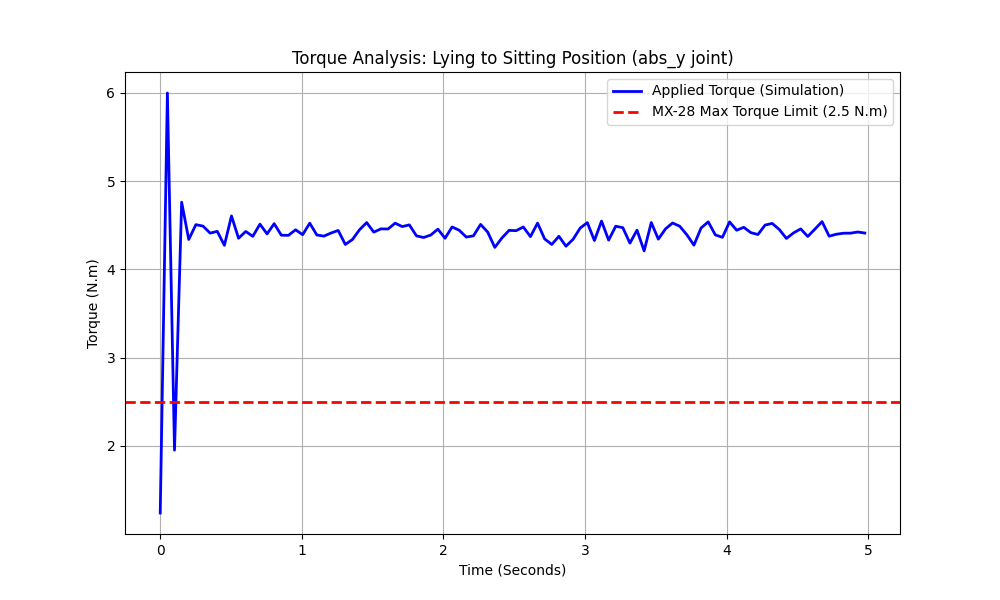
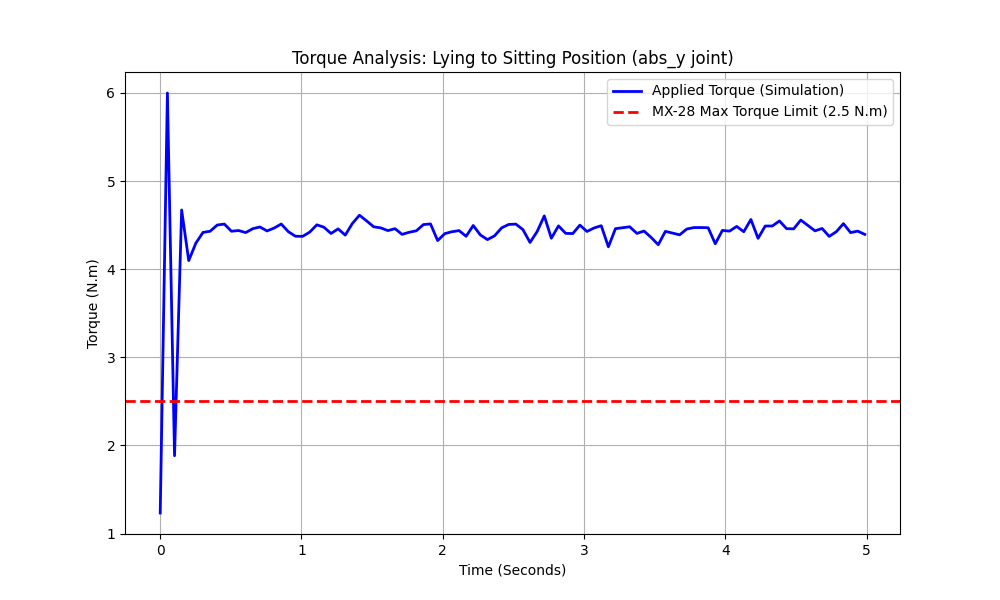
Added voice and speaker controllers and tested with hardwares

diff --git a/src/Controllers/VoiceController.py b/src/Controllers/VoiceController.py
@@ -1,0 +1,76 @@
+import speech_recognition as sr
+from enum import Enum
+from typing import Optional
+
+class RobotAction(Enum):
+    HELLO = 1
+    SIT_DOWN = 2
+    STAND_UP = 3
+    UNKNOWN_COMMAND = 4
+    SILENCE_OR_ERROR = 5
+
+class VoiceController:
+    def __init__(self, target_mic_name: str = "USB PnP Sound Device"): 
+        self.recognizer = sr.Recognizer()
+        
+        print("--- Available Microphone Devices ---")
+        mic_names = sr.Microphone.list_microphone_names()
+        
+        device_index = self._find_microphone_index(target_mic_name, mic_names)
+        
+        if device_index is not None:
+            print(f"Target microphone containing '{target_mic_name}' found at index {device_index}.")
+            self.microphone = sr.Microphone(device_index=device_index)
+        else:
+            print(f"Target microphone '{target_mic_name}' not found. Falling back to default...")
+            self.microphone = sr.Microphone()
+
+        with self.microphone as source:
+            self.recognizer.adjust_for_ambient_noise(source, duration=1)
+
+    def _match_intent(self, transcribed_text: str) -> RobotAction:
+        text = transcribed_text.lower().strip()
+
+        hello_keywords = ["hello", "hi", "hey", "greetings"]
+        sit_keywords = ["sit", "sit down", "take a seat"]
+        stand_keywords = ["stand", "stand up", "get up"]
+
+        if any(keyword in text for keyword in hello_keywords):
+            return RobotAction.HELLO
+        
+        if any(keyword in text for keyword in sit_keywords):
+            return RobotAction.SIT_DOWN
+            
+        if any(keyword in text for keyword in stand_keywords):
+            return RobotAction.STAND_UP
+
+        return RobotAction.UNKNOWN_COMMAND
+
+    def _find_microphone_index(self, target_name: str, mic_names: list) -> Optional[int]:
+        for index, name in enumerate(mic_names):
+            if target_name.lower() in name.lower():
+                return index
+        return None
+
+    def listen_and_get_action(self) -> RobotAction:
+        try:
+            print("Listening for command...")
+            with self.microphone as source:
+                audio_data = self.recognizer.listen(
+                    source, 
+                    timeout=5, 
+                    phrase_time_limit=5
+                )
+            
+            transcribed_text = self.recognizer.recognize_google(audio_data)
+            print(f"Transcribed: {transcribed_text}")
+            return self._match_intent(transcribed_text)
+
+        except sr.WaitTimeoutError:
+            return RobotAction.SILENCE_OR_ERROR
+        except sr.UnknownValueError:
+            return RobotAction.UNKNOWN_COMMAND
+        except sr.RequestError:
+            return RobotAction.SILENCE_OR_ERROR
+        except Exception:
+            return RobotAction.SILENCE_OR_ERROR

diff --git a/src/InstantTestsFolder/TestVoiceCommands.py b/src/InstantTestsFolder/TestVoiceCommands.py
@@ -1,0 +1,33 @@
+import sys
+import os
+
+current_dir = os.path.dirname(os.path.abspath(__file__))
+root_dir = os.path.abspath(os.path.join(current_dir, "../../"))
+sys.path.append(root_dir)
+
+
+from src.Controllers.VoiceController import VoiceController, RobotAction
+from src.Controllers.SpeakerController import SpeakerController
+
+# from src.Movements.VaweHand import wave_hand_function
+# from src.Movements.SitDown import sit_down_function
+
+voice_controller = VoiceController()
+speaker_controller = SpeakerController()
+
+while True:
+    action = voice_controller.listen_and_get_action()
+    
+    if action == RobotAction.HELLO:
+        print("In Hello Action")
+        speaker_controller.speak("Hello there! It is nice to meet you.")
+        # wave_hand_function()
+        pass
+    elif action == RobotAction.SIT_DOWN:
+        print("In Sit Down Action") 
+        # sit_down_function()
+        pass
+    elif action == RobotAction.UNKNOWN_COMMAND:
+        pass
+    elif action == RobotAction.SILENCE_OR_ERROR:
+        pass

diff --git a/src/Controllers/SpeakerController.py b/src/Controllers/SpeakerController.py
@@ -1,0 +1,24 @@
+import pyttsx3
+
+class SpeakerController:
+    def __init__(self, rate: int = 150, volume: float = 1.0):
+        # Initialize pyttsx3 (Offline TTS Engine)
+        self.engine = pyttsx3.init()
+        
+        # Voice rate and volume settings
+        self.engine.setProperty('rate', rate) 
+        self.engine.setProperty('volume', volume)
+        
+        # Optional: List available system voices (male/female) and select one
+        # voices = self.engine.getProperty('voices')
+        # self.engine.setProperty('voice', voices[1].id) # Typically 0 is male, 1 is female
+
+    def speak(self, text: str):
+        """
+        Converts the received text to speech and plays it through the speaker.
+        In the future, a more advanced AI model (such as Expressive TTS or 
+        Zero-Shot Voice Cloning) can be seamlessly integrated here.
+        """
+        print(f"Robot says: '{text}'")
+        self.engine.say(text)
+        self.engine.runAndWait()
